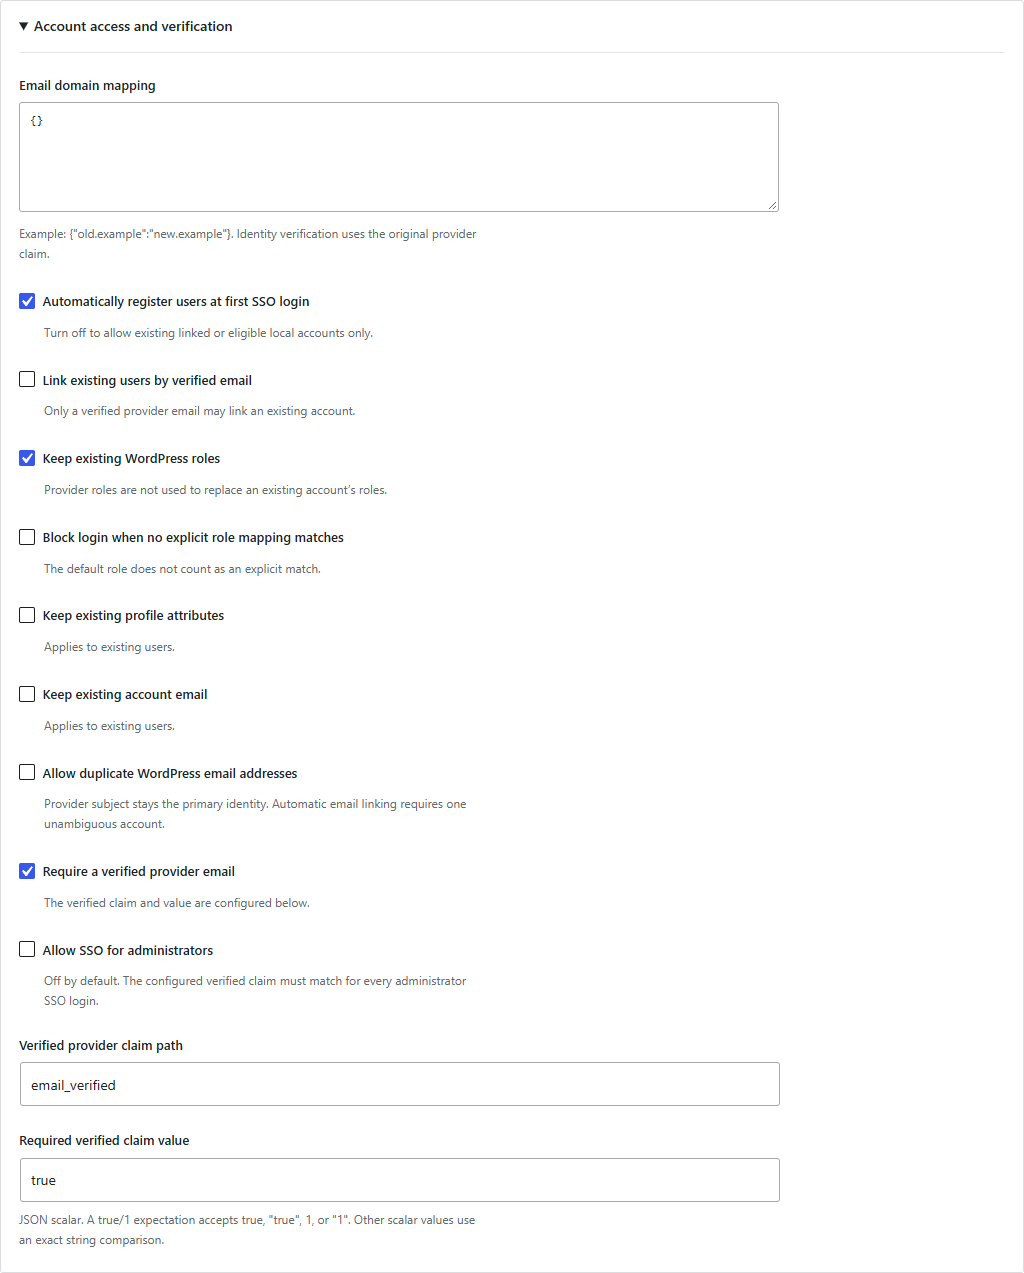
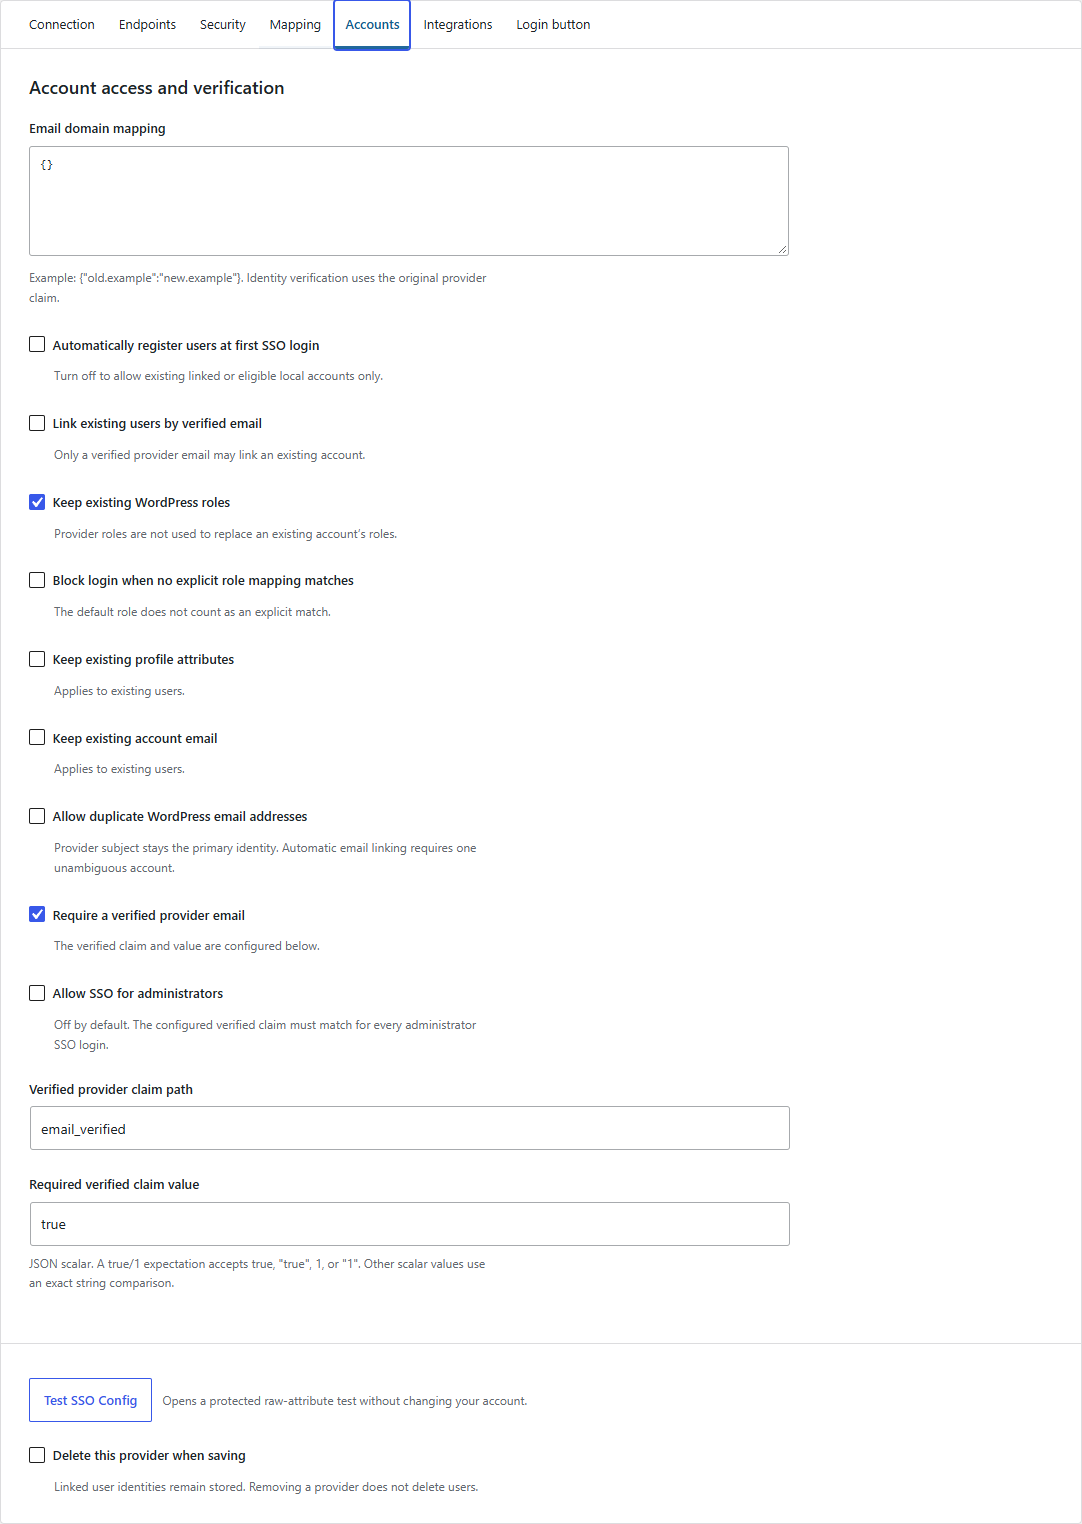
docs: explain provider tabs and refresh screenshots

diff --git a/docs/admin-design.md b/docs/admin-design.md
@@ -21,11 +21,15 @@ The callback strip distinguishes sign-in and post-logout return URLs where requi
 
 Each callback has its own visible, polite live status for copying, success and failure. The copy button also reflects the pending or completed action and prevents duplicate requests while copying. If clipboard access and the legacy copy fallback fail, the read-only URI stays selected so the administrator can use the device's copy command. Feedback belongs to the selected callback rather than an unrelated wizard step.
 
-Existing providers retain their advanced editor for endpoints, token validation, attribute/role mapping, account verification, optional integrations and button presentation. Advanced sections use native disclosure controls. An enabled status describes saved configuration and does not claim a successful connection or eligible user. Network test links are withheld when the network configuration is inactive, avoiding a misleading test against a different site-local provider with the same ID.
+Existing providers use seven editor tabs: Connection, Endpoints, Security, Mapping, Accounts, Integrations and Login button. Connection keeps the provider identity, credentials and scopes together; endpoint URLs have their own tab. An enabled status describes saved configuration and does not claim a successful connection or eligible user. Network test links are withheld when the network configuration is inactive, avoiding a misleading test against a different site-local provider with the same ID.
+
+The tabs enhance real section anchors into an ARIA tablist with associated panels and one tab stop. Left/Right arrows follow the text direction; Home/End select the first/last tab, while modified keys keep their browser behavior. Section fragments and browser history restore the selected panel. Without JavaScript, every section remains visible and the anchors jump to its heading. Navigation remains usable in the network-enforced read-only view. Native validation reveals the first invalid field's panel before the browser focuses it.
 
 ## Saving and security
 
 `Admin::save()` retains capability, nonce, shape, JSON and truncation checks. `AdminSettings::prepare()` then allows only fields owned by the selected screen. Global screens omit the provider map. A provider save submits the selected provider and empty placeholders for preserved IDs, allowing `Config::save()` to retain each provider's stored configuration and credentials. Stored plaintext or ciphertext is never forwarded as newly submitted secret input. Nonsecret nested settings preserve omitted keys, while explicit false checkbox values still turn features off.
+
+The provider editor has one form: Save provider saves all seven sections. Switching tabs hides panels without disabling their fields or clearing unsaved values, so inactive sections remain in the POST payload. Blank secret inputs preserve stored credentials unless the administrator explicitly clears them. The allowlisted GET `provider_section` and POST `portalweave_sso_provider_section` select presentation and preserve the return section after a save or error; unknown sections fall back to Connection and structured POST values are rejected. Section navigation never narrows the provider update or enters stored configuration.
 
 The network-enforced site view remains read-only. Settings preparation, persistence and the existing Config policy remain separate; the layout does not bypass authentication, privilege mapping, media protection or uninstall choices.
 

diff --git a/docs/provider-setup.md b/docs/provider-setup.md
@@ -50,6 +50,26 @@ Advanced JWT configuration supports RS256, RS384, RS512, HS256, HS384 and HS512.
 | ClassLink | Current partner-provided endpoints, client-authentication contract and stable/verified claim paths. The older public endpoint template is not assumed current. |
 | Custom OAuth / OIDC | Explicit protocol, endpoints, scopes and documented client authentication. OIDC requires its exact issuer and trusted JWKS; OAuth2 can supply an authorization-response issuer when it emits `iss`. |
 
+## Edit an existing provider
+
+Open **Identity providers > Configure** for the provider. Its editor has seven tabs:
+
+| Tab | Settings |
+| --- | --- |
+| Connection | Provider template, display name, enabled status, credentials and scopes |
+| Endpoints | Authorization, token, user/group info, issuer, signing keys and logout/callback URLs |
+| Security | Protocol, login grant, PKCE, legacy opt-in, allowed algorithms and immutable subject |
+| Mapping | Standard/custom attributes, group/domain role mappings and default role |
+| Accounts | Registration, linking, retained attributes/roles and verified-email/administrator policy |
+| Integrations | Per-provider guest, moderation, shared/JWT SSO, picture and redirect options |
+| Login button | Provider-specific button text and icon |
+
+**Save provider** saves every tab for this provider. Switching tabs keeps unsaved values, including fields in inactive tabs; it does not save automatically. Leaving a stored secret input blank preserves that credential. Use its explicit clear control only when you intend to remove it. Other providers and site-wide policy remain separate.
+
+Use Left/Right arrows or Home/End while a tab is focused. Browser Back/Forward restores section navigation, and a browser validation error opens the tab containing the first invalid field. Without JavaScript, all seven sections are visible and their links jump within the same form. Network-managed settings remain read-only, with section navigation available.
+
+With JavaScript, the selected tab is retained after saving or a server validation error. Section links accept only the named tabs; an unknown section opens Connection.
+
 ## Provider notes
 
 | Provider | Registration / endpoint considerations |

diff --git a/docs/screenshots/README.md b/docs/screenshots/README.md
@@ -6,6 +6,8 @@ Capture the actual interface with Playwright. Keep the WordPress styling and use
 
 The gallery covers overview, provider choice and setup, public login and shortcode placement, appearance, account mapping and verification, access policy, optional modules, audit/privacy, backup/restore and genuine multisite enforcement. Current site screens use `wp-admin/options-general.php?page=portalweave-sso&tab=...`; network controls use the corresponding Network Admin screen. See [admin screen design](../admin-design.md) for the route and interaction contracts.
 
+Existing-provider configuration uses its seven tabs; capture the appropriate active tab for mapping and account-policy views. Keep these editor screenshots distinct from the step-by-step creation guide.
+
 Review images individually for clipping, misleading state and sensitive data before replacing them. Update the matching README captions and alternative text when the interface changes. Raw browser output, authenticated profiles, cookies, traces and fixture setup files stay in ignored local artifact directories.
 
 These are repository documentation assets. Both the production allowlist and `.distignore` exclude this directory from the installable plugin ZIP. Follow [AGENTS.md](../../AGENTS.md#documentation-and-screenshots) and the [disposable verification guidance](../verification.md#reproduce-the-current-checks) when refreshing the gallery.

diff --git a/README.md b/README.md
@@ -47,6 +47,10 @@ Return to the provider list to configure an existing connection.
 
 ![Identity provider list with sample saved connections](docs/screenshots/providers.png)
 
+Configure an existing provider through focused tabs. Switching tabs keeps your edits; **Save provider** saves every section.
+
+![Provider configuration with Connection, Endpoints, Security, Mapping, Accounts, Integrations and Login button tabs](docs/screenshots/provider-settings.png)
+
 </details>
 
 ### Add login buttons
